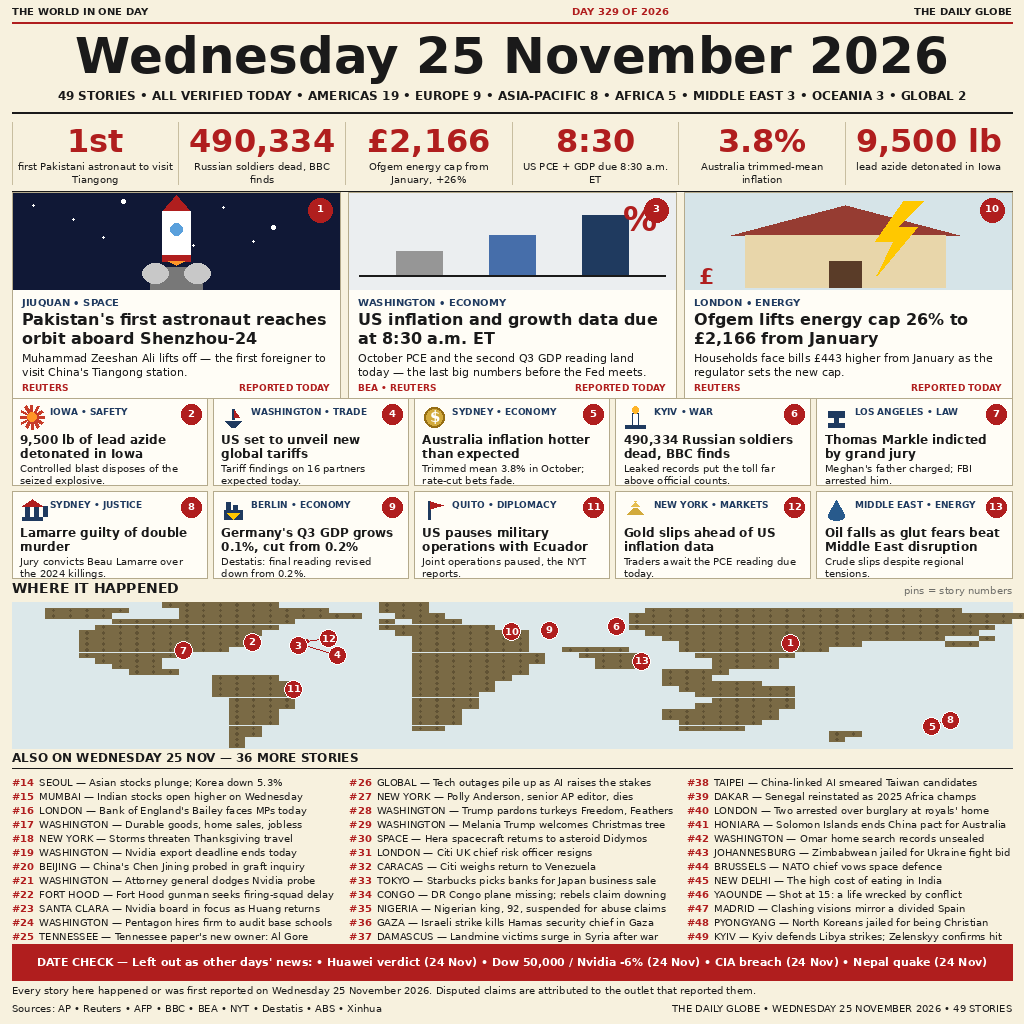
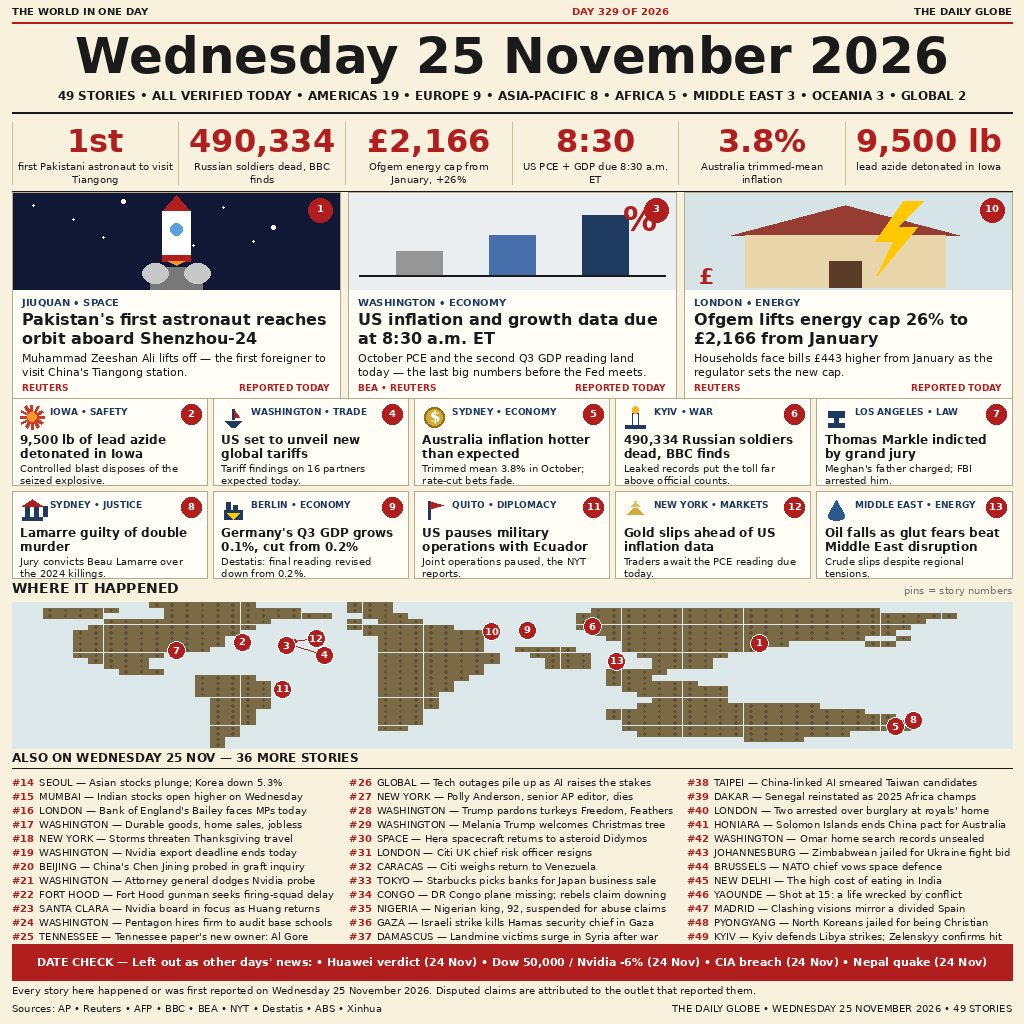
news-image-20261125 v3: fix map right margin + pins 5/8

Changed region(s): [[0.0625, 0.5625, 1.0, 0.75]]

diff --git a/render.py b/render.py
@@ -399,23 +399,23 @@ MAP_GRID = [
     "            #####       #####           #######               ",
     "            #####       ####             ######               ",
     "             ####       ####              #####               ",
-    "             ####       ####             ######               ",
-    "             ###        ###            #######                ",
-    "             ###        ###            #######                ",
-    "             ###        ###             #####                 ",
-    "             ##         ##              ####                  ",
-    "             ##                                  ##          ",
-    "             #                                   #           ",
+    "             ####       ####             ############          ",
+    "             ###        ###            #################       ",
+    "             ###        ###            ###################     ",
+    "             ###        ###             ###################    ",
+    "             ##         ##              ###################    ",
+    "             ##                          ##############        ",
+    "             #                                  ####           ",
     "             #                                               ",
 ]
 
 PINS = [
     (1, 100.3, 41.0, None), (2, -93.5, 42.0, None),
-    (3, -77.0, 38.9, None), (4, -63.0, 30.0, (298, 643)),
+    (3, -77.0, 38.9, None), (4, -63.0, 30.0, (287, 643)),
     (5, 151.2, -33.9, None), (6, 37.6, 55.8, None),
-    (7, -118.2, 34.1, None), (8, 158.0, -28.0, (932, 723)),
+    (7, -118.2, 34.1, None), (8, 158.0, -28.0, (895, 723)),
     (9, 13.4, 52.5, None), (10, -0.1, 51.5, None),
-    (11, -78.5, -0.2, None), (12, -66.0, 45.0, (306, 641)),
+    (11, -78.5, -0.2, None), (12, -66.0, 45.0, (294, 641)),
     (13, 46.7, 24.7, None),
 ]
 
@@ -427,8 +427,8 @@ def draw_map(d, y0, h):
            fill=GREY)
     gy, gh = y0 + 24, h - 24
     d.rectangle([12, gy, W - 12, gy + gh], fill=SEA)
-    rows, cols = len(MAP_GRID), 60
-    cw, chh = 1000.0 / cols, gh / rows
+    rows, cols = len(MAP_GRID), 63
+    cw, chh = 960.0 / cols, gh / rows
     for r, row in enumerate(MAP_GRID):
         for cix, cell in enumerate(row.ljust(cols)):
             if cell == "#":
@@ -442,13 +442,13 @@ def draw_map(d, y0, h):
                           fill=(96, 82, 52))
     for num, lon, lat, leader_from in PINS:
         if leader_from:
-            px = 12 + (lon + 180.0) / 360.0 * 1000.0
+            px = 12 + (lon + 180.0) / 360.0 * 960.0
             py = gy + (78.0 - lat) / 131.0 * gh
             d.line([leader_from, (px, py)], fill=RED, width=1)
             d.ellipse([leader_from[0] - 2, leader_from[1] - 2,
                        leader_from[0] + 2, leader_from[1] + 2], fill=RED)
     for num, lon, lat, leader_from in PINS:
-        px = 12 + (lon + 180.0) / 360.0 * 1000.0
+        px = 12 + (lon + 180.0) / 360.0 * 960.0
         py = gy + (78.0 - lat) / 131.0 * gh
         d.ellipse([px - 9, py - 9, px + 9, py + 9], fill=RED,
                   outline=WHITE, width=1)
